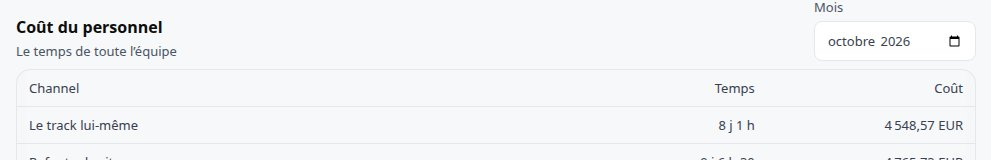
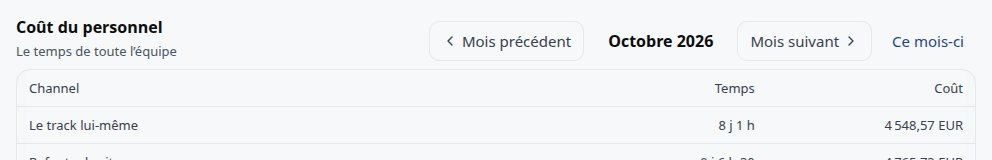
INC-333 : preuves de bout en bout et manuel — cout-personnel, saisie-temps, temps-fiche-affaire, connecteur-temps, couts-track et cout-personnel-calcul 30/31 sur la base reconstruite par CRM-111 (l'échec : verdict console sur un WebSocket Realtime en 502 pendant le redémarrage du service, toutes les

diff --git a/e2e/manuel/27-29-saisie-temps-recettes.spec.ts b/e2e/manuel/27-29-saisie-temps-recettes.spec.ts
@@ -73,6 +73,10 @@ test('le temps : la semaine, le rapport, le coût du personnel', async ({ page }
 	await page.goto('/temps?onglet=rapport')
 	const rapport = page.getByTestId('temps-rapport')
 	await expect(rapport).toBeVisible()
+	// Le mois précédent, que le seed remplit : l'image montre aussi « Ce mois-ci », rendu hors du mois du jour (INC-333).
+	await rapport.getByRole('button', { name: 'Mois précédent' }).click()
+	await expect(rapport.getByRole('button', { name: 'Ce mois-ci' })).toBeVisible()
+	await expect(rapport.getByText('Chargement en cours')).toHaveCount(0)
 	await illustrer(page, { chapitre: TEMPS, section: 'le-rapport-mensuel', nom: 'rapport-mensuel', cibles: [rapport] })
 	await page.goto('/reglages/cout-personnel')
 	const cout = page.getByTestId('cout-personnel')
